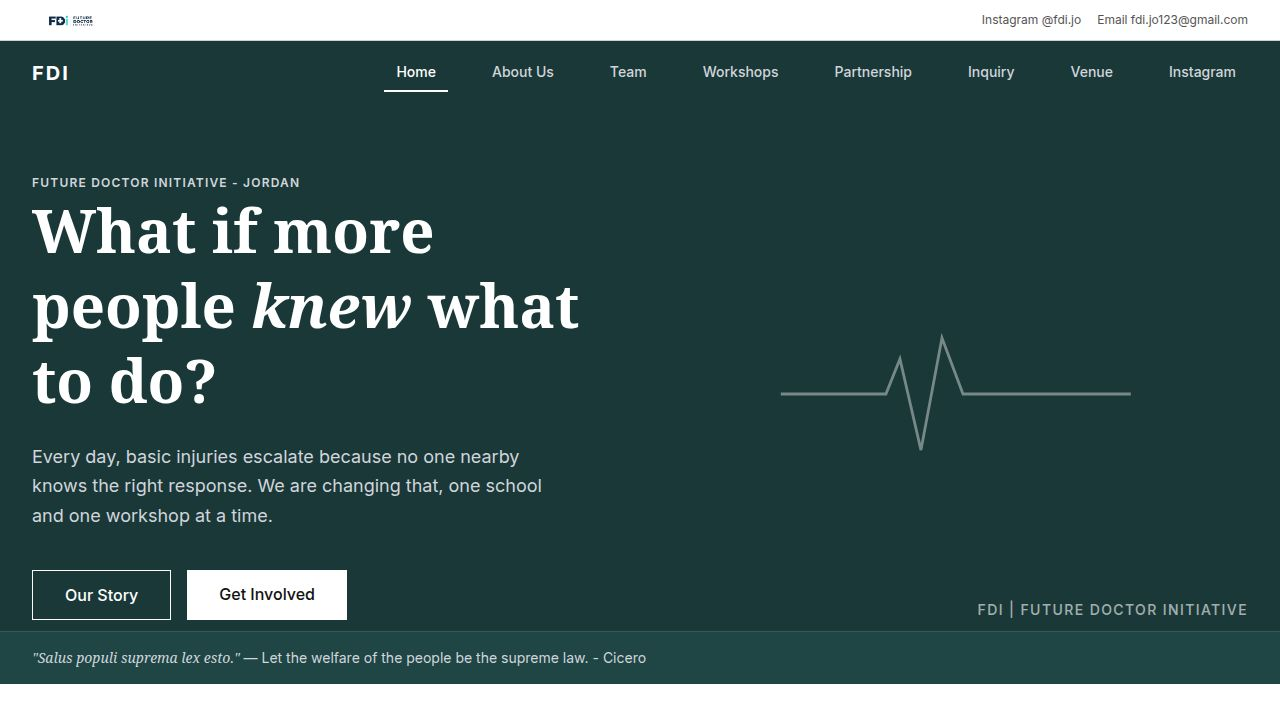
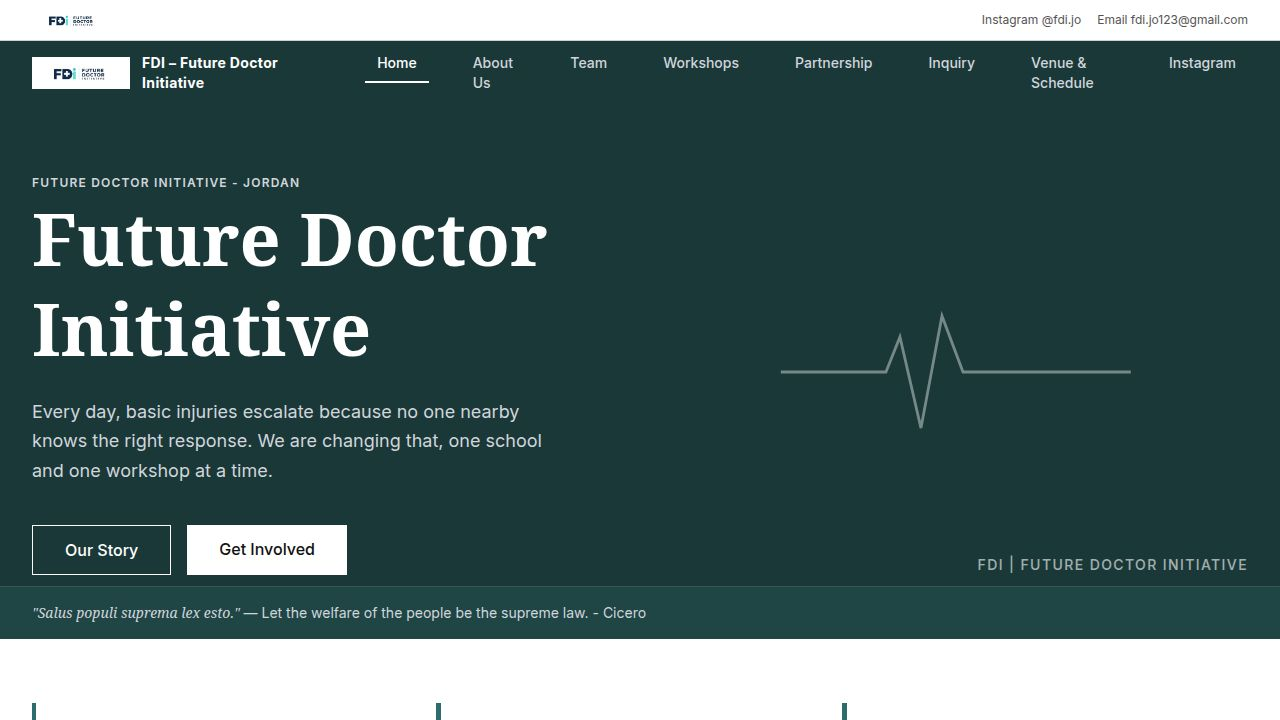
Make website deployable to Vercel by removing backend dependencies
Update Vite configuration to handle missing environment variables, remove unused workspace dependencies, and add Vercel deployment configuration.

Replit-Commit-Author: Agent
Replit-Commit-Session-Id: 3c81954f-e625-40ea-8acc-6f54bc4b14f0
Replit-Commit-Checkpoint-Type: full_checkpoint
Replit-Commit-Event-Id: b683522f-d517-48fa-9ee7-153608855d0e
Replit-Commit-Screenshot-Url: https://storage.googleapis.com/screenshot-production-us-central1/8b927778-a40d-4978-839d-b85475f2875f/3c81954f-e625-40ea-8acc-6f54bc4b14f0/sP4huxS
Replit-Helium-Checkpoint-Created: true

diff --git a/artifacts/fdi-website/vite.config.ts b/artifacts/fdi-website/vite.config.ts
@@ -2,47 +2,35 @@ import { defineConfig } from "vite";
 import react from "@vitejs/plugin-react";
 import tailwindcss from "@tailwindcss/vite";
 import path from "path";
-import runtimeErrorOverlay from "@replit/vite-plugin-runtime-error-modal";
+
+const isReplit = process.env.REPL_ID !== undefined;
+const isVercel = process.env.VERCEL !== undefined;
 
 const rawPort = process.env.PORT;
+const port = rawPort ? Number(rawPort) : 3000;
 
-if (!rawPort) {
-  throw new Error(
-    "PORT environment variable is required but was not provided.",
-  );
-}
-
-const port = Number(rawPort);
-
-if (Number.isNaN(port) || port <= 0) {
-  throw new Error(`Invalid PORT value: "${rawPort}"`);
-}
-
-const basePath = process.env.BASE_PATH;
-
-if (!basePath) {
-  throw new Error(
-    "BASE_PATH environment variable is required but was not provided.",
-  );
-}
+const basePath = process.env.BASE_PATH ?? "/";
 
 export default defineConfig({
   base: basePath,
   plugins: [
     react(),
     tailwindcss(),
-    runtimeErrorOverlay(),
-    ...(process.env.NODE_ENV !== "production" &&
-    process.env.REPL_ID !== undefined
+    ...(isReplit && !isVercel
       ? [
-          await import("@replit/vite-plugin-cartographer").then((m) =>
-            m.cartographer({
-              root: path.resolve(import.meta.dirname, ".."),
-            }),
-          ),
-          await import("@replit/vite-plugin-dev-banner").then((m) =>
-            m.devBanner(),
-          ),
+          (await import("@replit/vite-plugin-runtime-error-modal")).default(),
+          ...(process.env.NODE_ENV !== "production"
+            ? [
+                await import("@replit/vite-plugin-cartographer").then((m) =>
+                  m.cartographer({
+                    root: path.resolve(import.meta.dirname, ".."),
+                  }),
+                ),
+                await import("@replit/vite-plugin-dev-banner").then((m) =>
+                  m.devBanner(),
+                ),
+              ]
+            : []),
         ]
       : []),
   ],
@@ -55,7 +43,7 @@ export default defineConfig({
   },
   root: path.resolve(import.meta.dirname),
   build: {
-    outDir: path.resolve(import.meta.dirname, "dist/public"),
+    outDir: path.resolve(import.meta.dirname, "dist"),
     emptyOutDir: true,
   },
   server: {